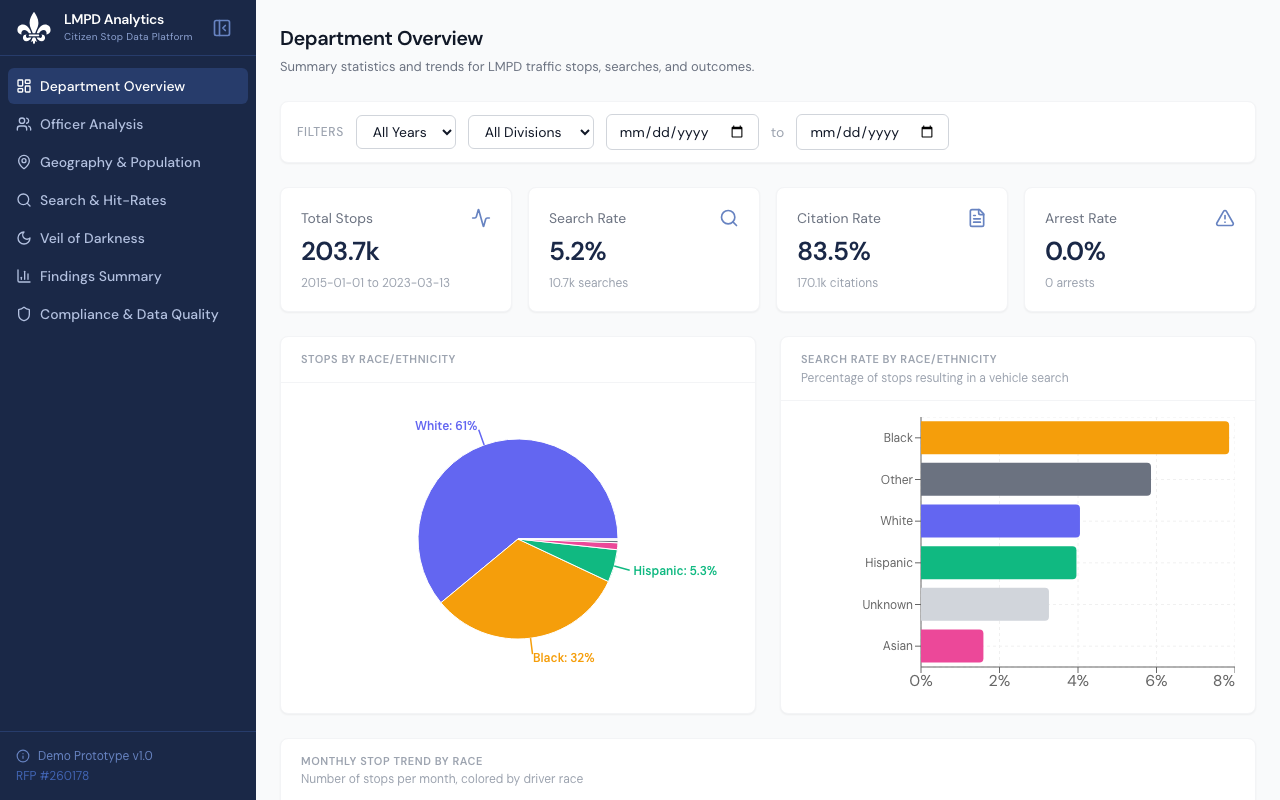
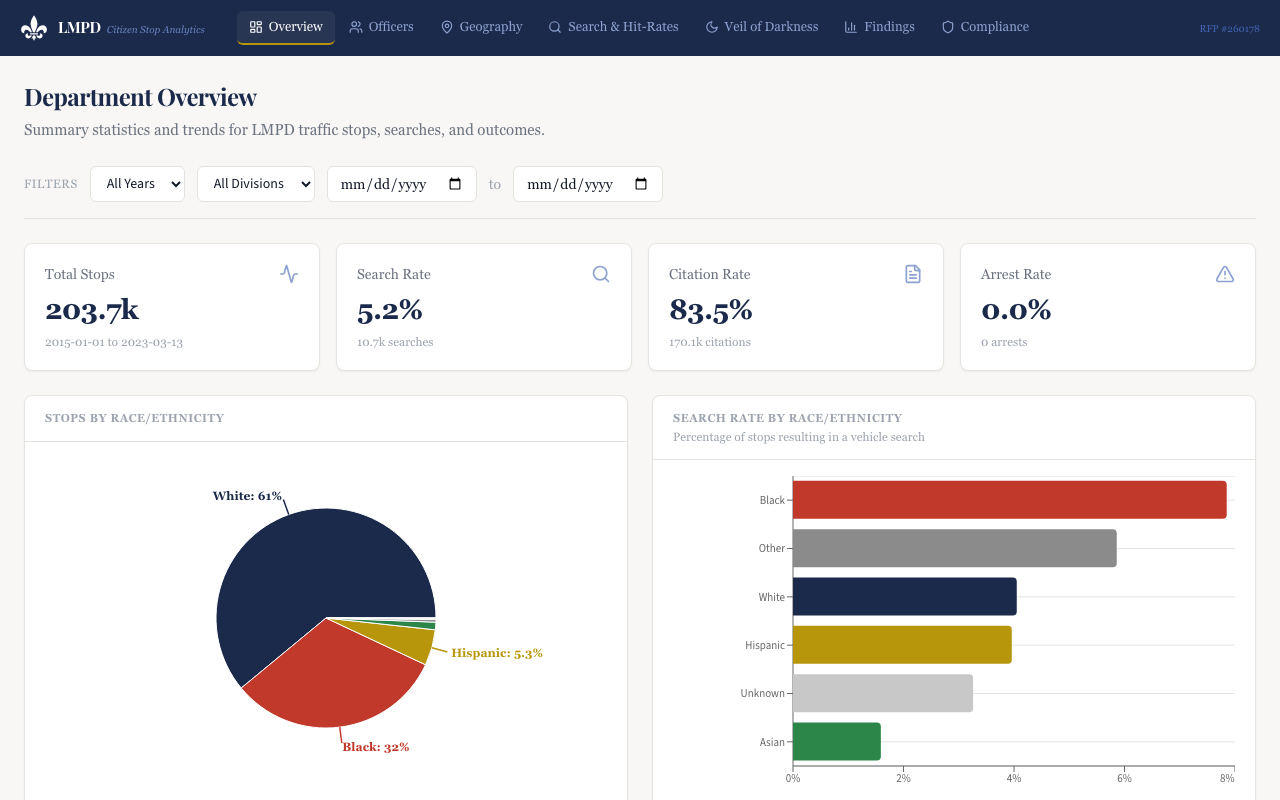
Retake LMPD screenshot, rename to Louisville PD Analytics

diff --git a/script.js b/script.js
@@ -33,7 +33,7 @@ const DISPLAY_NAMES = {
   'govdash': 'GovDash',
   'police-staffing-dashboard': 'Police Staffing Dashboard',
   'nola-dashboard': 'NOLA Operations Dashboard',
-  'lmpd-analytics': 'LMPD Analytics',
+  'lmpd-analytics': 'Louisville PD Analytics',
   'smc-beach-safety': 'SMC Beach Safety',
   'nopd-bias-demo': 'NOPD Bias-Free Policing Demo'
 };
